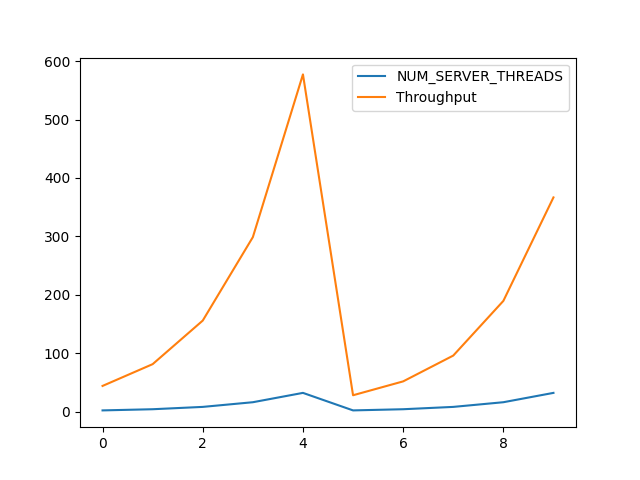
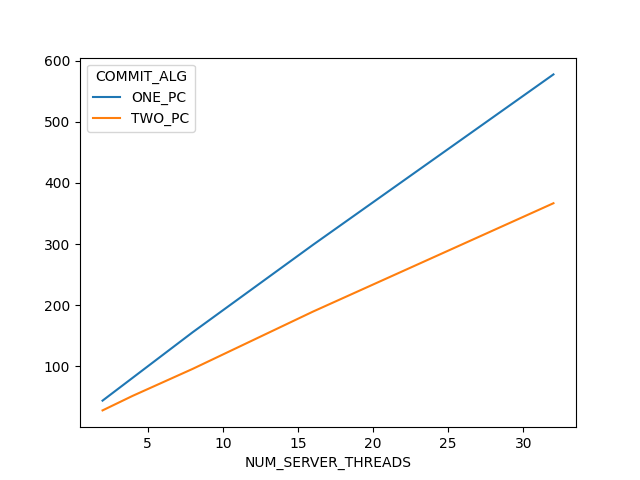
update

diff --git a/outputs/summarize_csv.py b/outputs/summarize_csv.py
@@ -14,6 +14,8 @@ df = pd.read_csv(sys.argv[1])
 #df.index()
 grouped = df.groupby(['COMMIT_ALG', 'NUM_SERVER_THREADS'])
 newdf = grouped['Throughput'].mean().reset_index()
+newdf = newdf.pivot(index='NUM_SERVER_THREADS', columns='COMMIT_ALG', values='Throughput')
+print(newdf)
 plot = newdf.plot()
 fig = plot.get_figure()
 fig.savefig("output.png")
